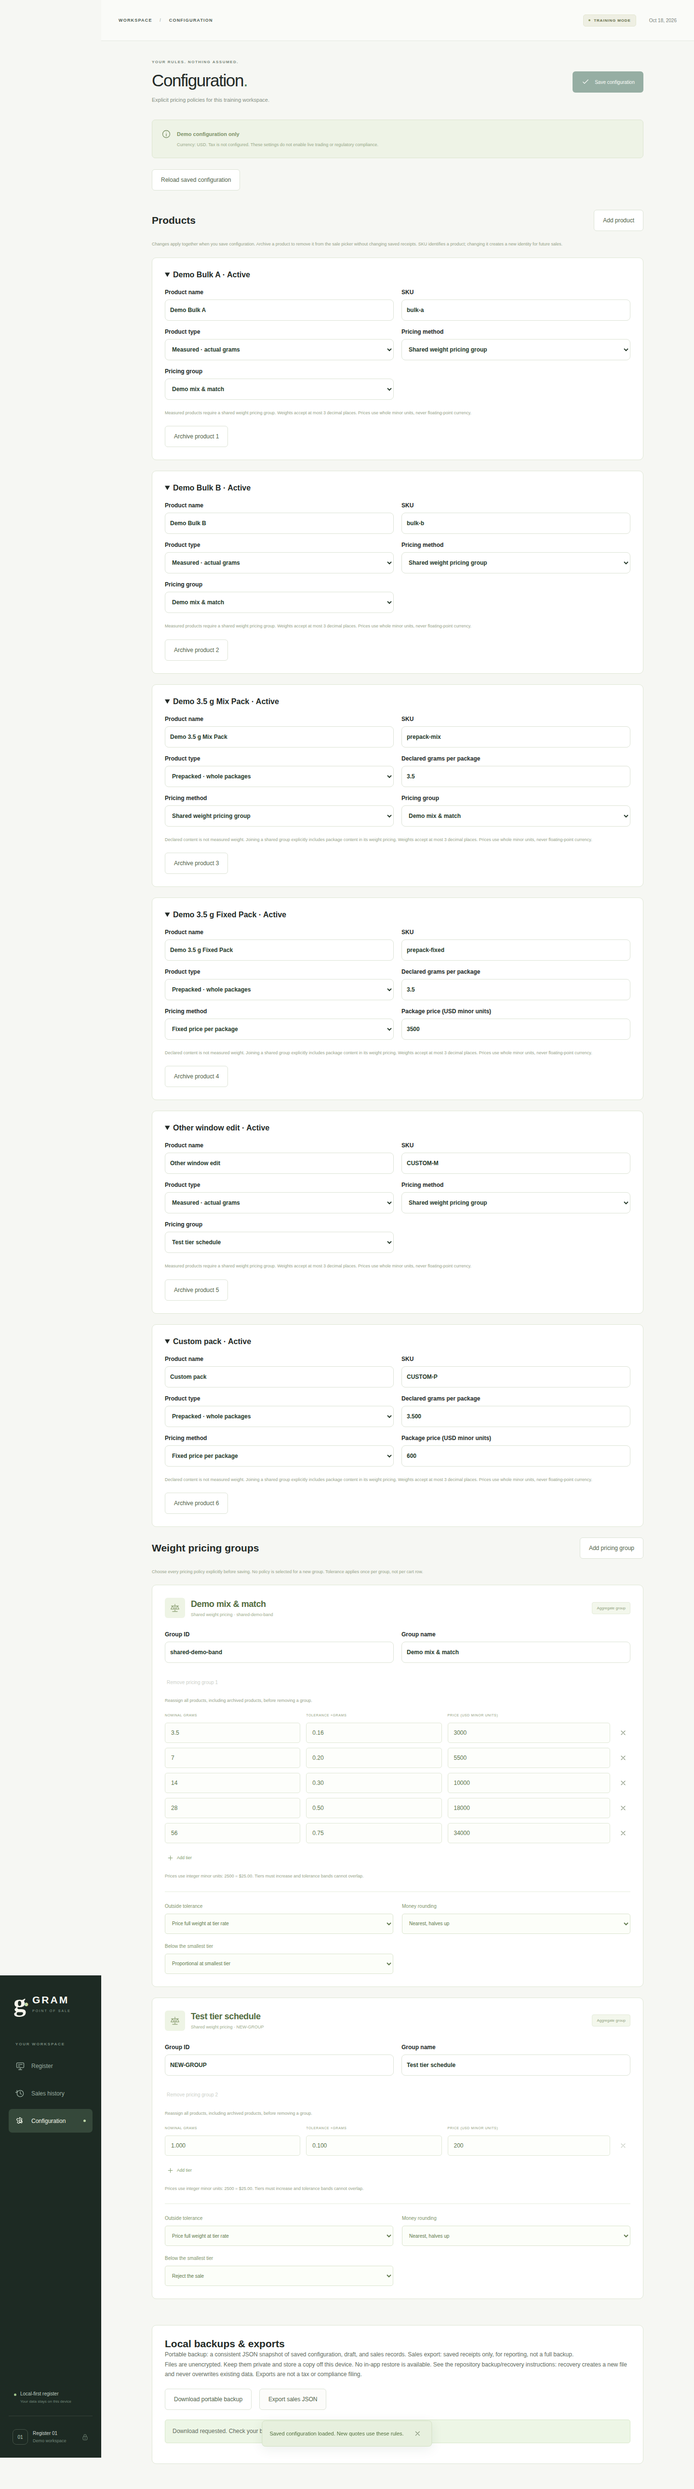
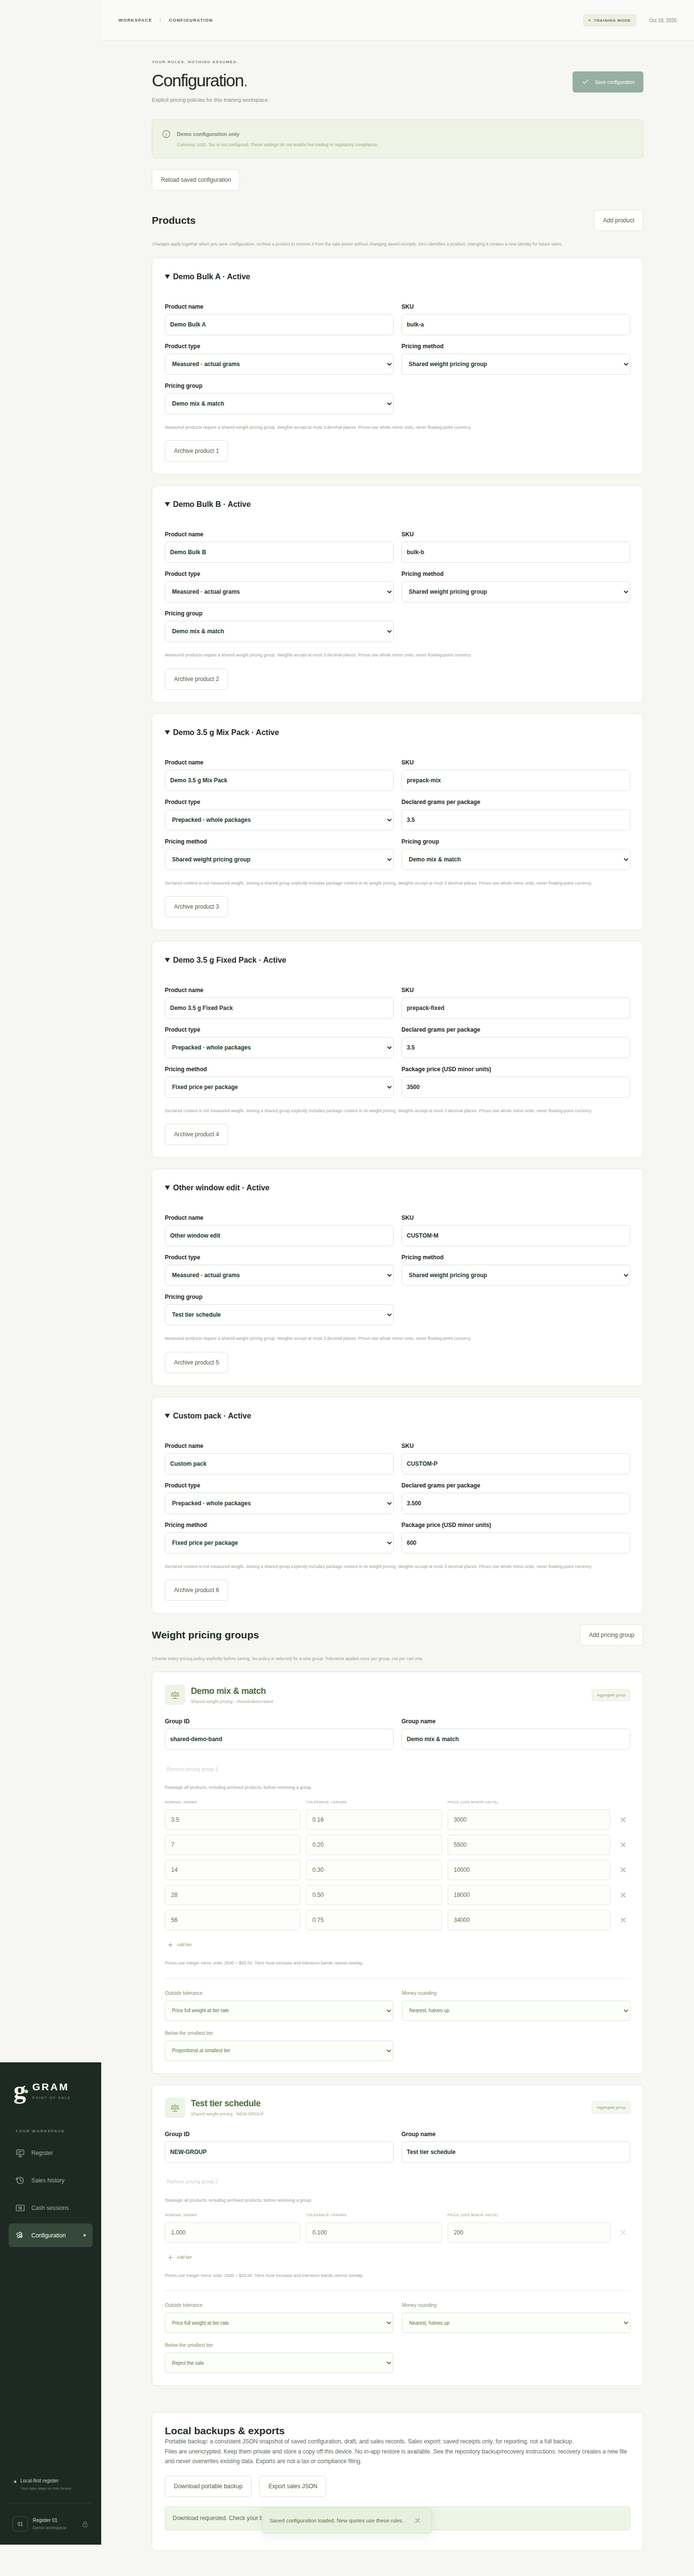
Document verified cash session and refund flows with real screenshots

diff --git a/README.md b/README.md
@@ -6,7 +6,7 @@ Repository: https://github.com/LJrobinson/GRAM-POS.
 
 ## See the prototype
 
-Real browser screenshots from the [passing milestone-3 CI run](https://github.com/LJrobinson/GRAM-POS/actions/runs/39166231704), using the local Rust service and SQLite test data. These show the **training/demo prototype**, not a production register or native-device certification.
+Real browser screenshots from the [passing milestone-4 browser CI job](https://github.com/LJrobinson/GRAM-POS/actions/runs/39170235816/job/117801860359) at commit `53332e4`, using the local Rust service and SQLite test data. These show the **training/demo prototype**, not a production register or native-device certification.
 
 ### Register
 
@@ -31,6 +31,31 @@ Download a consistent portable backup or a separate sales JSON report. Files are
 
 ![GRAM backup and sales export panel, including privacy and recovery guidance](docs/screenshots/backup-export-panel.png)
 
+### Cash refunds and drawer reconciliation
+
+Review the original full-sale refund with a reason, then compare counted cash with expected cash before permanently closing the drawer. No original receipt is rewritten and no stock return is inferred.
+
+<details>
+<summary>View full-receipt refund confirmation</summary>
+
+![GRAM full-receipt refund review with original receipt, exact total, and reason](docs/screenshots/refund-confirmation.png)
+
+</details>
+
+<details>
+<summary>View cash-session closing count and variance</summary>
+
+![GRAM close-session review showing starting float, sales, refunds, expected cash, counted cash and variance](docs/screenshots/cash-session-close.png)
+
+</details>
+
+<details>
+<summary>View mobile cash-session history</summary>
+
+![GRAM mobile cash-session history with permanent closing variance and refund record](docs/screenshots/cash-session-history-phone.png)
+
+</details>
+
 ## Milestone 4: cash sessions and full-sale refunds
 
 Version **0.4.0** adds a training-only cash ledger without rewriting any sale:
@@ -45,7 +70,7 @@ Sessions snapshot currency and precision. Close the session before changing curr
 
 The service explicitly migrates schema 1 stores to schema 2 while leaving their receipt/request bytes intact. The recovery tool accepts older v1 backups as legacy history and new v2 backups with the cash ledger. Back up before upgrading; do not reopen an upgraded store with an older app. See [cash-session workflow](docs/cash-sessions.md) and [backup and recovery](docs/backup.md).
 
-The screenshots above remain verified milestone-3 examples until new milestone-4 browser CI captures are reviewed. Current verification status is recorded in [VALIDATION.md](VALIDATION.md).
+The screenshots above are original milestone-4 browser captures from the real Rust/SQLite test run. Current verification status is recorded in [VALIDATION.md](VALIDATION.md).
 
 ## Milestone 3: your catalog, local exports
 

diff --git a/VALIDATION.md b/VALIDATION.md
@@ -21,7 +21,11 @@ Ledger coverage includes exact refunds after catalog edits, changed-key double-r
 
 No milestone-4 browser screenshots or native Windows runtime pass is claimed locally. The previously verified environment lacks native GTK/GObject dependencies and browser socket execution; no repeat escalation was attempted. The Register CI workflow runs real-Rust browser E2E and native Windows checks/unsigned packaging. New browser coverage captures full-refund review, cash-session closing review, and mobile session history/open state; it exercises lost-response/reload recovery for opening, refund and closing, plus repeated refund clicks. The original mixed-cart checkout/catalog/export checks remain. The blank-onboarding case uses mocked transport; ledger cases use the real Rust adapter.
 
-README screenshots currently remain labeled milestone 3. Replace/add milestone-4 images only after successful CI artifacts are downloaded and inspected. CI evidence must match the published implementation commit. Successful unsigned installer builds do not establish real-device usability, peripherals, production payments/tax/compliance, or independent security certification.
+## Verified milestone-4 browser CI
+
+At commit `53332e4cf3cd2edb1cc7b20a2376cecfca189c85`, [Register browser job](https://github.com/LJrobinson/GRAM-POS/actions/runs/39170235816/job/117801860359) passed all four scenarios. Its original screenshots were downloaded and visually inspected for README; no generated mockup or pixel edits were substituted. The initial run exposed unnamed icon-only mobile navigation; explicit accessible labels corrected it, and the same mobile flow now passes.
+
+Core CI at this commit passed Linux/macOS/Windows, Rust 1.70 and Wasm checks. Frontend and service checks passed on Linux and Windows. Native Windows packaging was still running when this screenshot documentation was prepared; the final PR-head workflow result must be checked separately. Successful unsigned installer builds do not establish real-device usability, peripherals, production payments/tax/compliance, or independent security certification.
 
 ---
 
